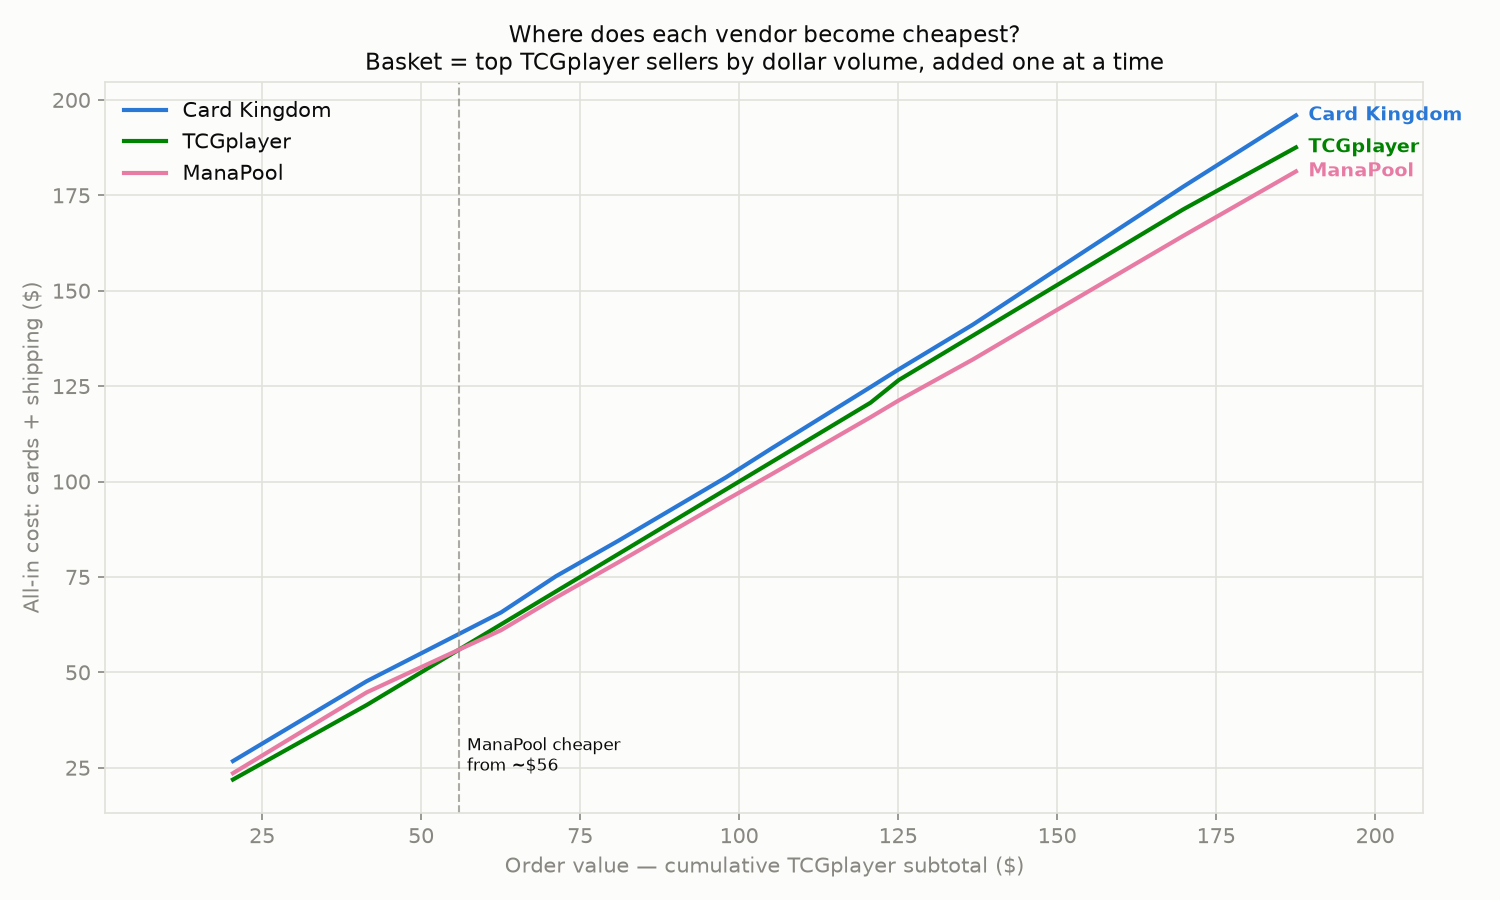
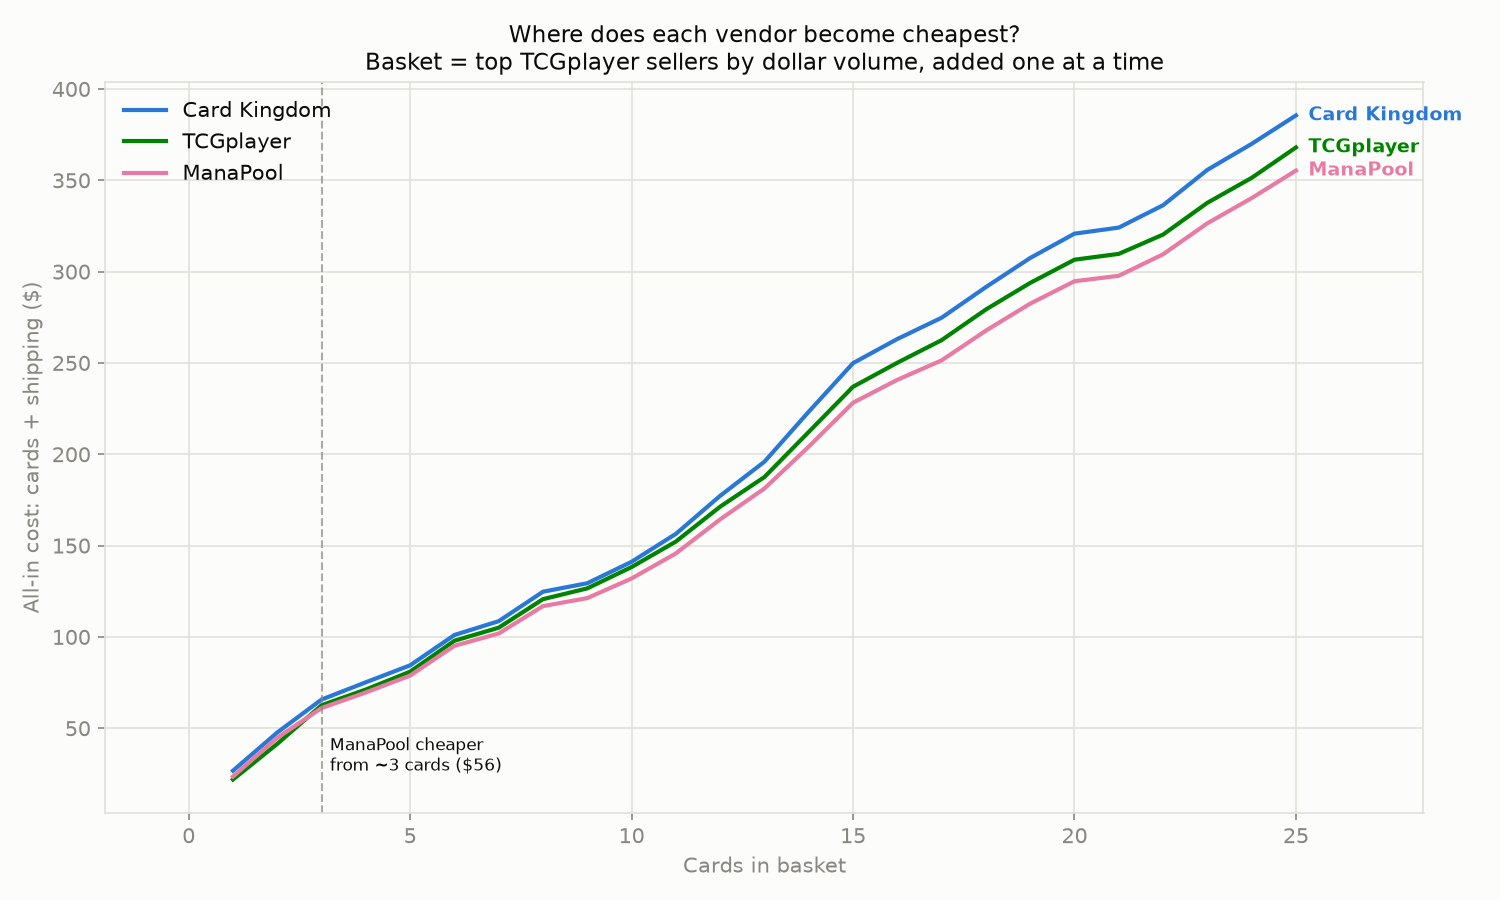
Switch chart x-axis to number of cards
Main and zoom charts now plot cards-in-basket on the x-axis (crossover
markers show both card count and dollar equivalent); the order-value view
moves to crossover_by_value.png. Zoom covers the first 25 cards.

Claude-Session: https://claude.ai/code/session_01JfSvnLRd6xKJhXvNadj6Qu

diff --git a/mtg_pricebot/cli.py b/mtg_pricebot/cli.py
@@ -66,16 +66,18 @@ def cmd_run(cfg: dict, args):
 
     curves_path = out_dir / f"basket_curves{suffix}.csv"
     curves.to_csv(curves_path, index=False)
-    chart_path = plot.plot_curves(curves, crossovers, out_dir / f"crossover_chart{suffix}.png")
-    chart_n_path = plot.plot_curves(curves, [], out_dir / f"crossover_by_cards{suffix}.png",
-                                    x_col="n_cards")
-    # Zoomed view of the small-order region where shipping thresholds bite.
-    zoom = curves[curves["order_value"] <= 200]
+    chart_path = plot.plot_curves(curves, crossovers, out_dir / f"crossover_chart{suffix}.png",
+                                  x_col="n_cards")
+    chart_v_path = plot.plot_curves(curves, crossovers,
+                                    out_dir / f"crossover_by_value{suffix}.png")
+    # Zoomed view of the small-basket region where shipping thresholds bite.
+    zoom = curves[curves["n_cards"] <= 25]
     if len(zoom) >= 3:
-        zoom_events = [ev for ev in crossovers if ev["order_value"] <= 200]
-        plot.plot_curves(zoom, zoom_events, out_dir / f"crossover_zoom{suffix}.png")
+        zoom_events = [ev for ev in crossovers if ev["n_cards"] <= 25]
+        plot.plot_curves(zoom, zoom_events, out_dir / f"crossover_zoom{suffix}.png",
+                         x_col="n_cards")
 
-    print(f"\nWrote {curves_path}\nWrote {chart_path}\nWrote {chart_n_path}\n")
+    print(f"\nWrote {curves_path}\nWrote {chart_path}\nWrote {chart_v_path}\n")
     print("=== Crossovers vs TCGplayer (all-in cost) ===")
     if not crossovers:
         print("  none — one vendor stays cheapest across the whole range")

diff --git a/mtg_pricebot/plot.py b/mtg_pricebot/plot.py
@@ -33,10 +33,15 @@ def plot_curves(curves: pd.DataFrame, crossovers: list[dict], out_path: Path,
     for ev in crossovers:
         if ev["direction"] != "cheaper":
             continue
-        ax.axvline(ev["order_value"], color=MUTED, linewidth=1, linestyle="--", alpha=0.7)
+        if x_col == "n_cards":
+            xv = ev["n_cards"]
+            note = f'{LABELS[ev["vendor"]]} cheaper\nfrom ~{ev["n_cards"]} cards (${ev["order_value"]:,.0f})'
+        else:
+            xv = ev["order_value"]
+            note = f'{LABELS[ev["vendor"]]} cheaper\nfrom ~${ev["order_value"]:,.0f}'
+        ax.axvline(xv, color=MUTED, linewidth=1, linestyle="--", alpha=0.7)
         y0, y1 = ax.get_ylim()
-        ax.annotate(f'{LABELS[ev["vendor"]]} cheaper\nfrom ~${ev["order_value"]:,.0f}',
-                    (ev["order_value"], y0 + 0.05 * (y1 - y0)),
+        ax.annotate(note, (xv, y0 + 0.05 * (y1 - y0)),
                     color=INK, fontsize=8, ha="left", va="bottom",
                     xytext=(4, 0), textcoords="offset points")
 

diff --git a/README.md b/README.md
@@ -32,9 +32,9 @@ Outputs land in `output/`:
 
 | File | What it is |
 |---|---|
-| `crossover_chart*.png` | The three cost curves + crossover markers |
-| `crossover_zoom*.png` | Zoom on the $0–200 region where shipping thresholds bite |
-| `crossover_by_cards*.png` | Same curves with card count on the x-axis |
+| `crossover_chart*.png` | The three cost curves + crossover markers (x = cards in basket) |
+| `crossover_zoom*.png` | Zoom on the first 25 cards, where shipping thresholds bite |
+| `crossover_by_value*.png` | Same curves with order value ($) on the x-axis |
 | `basket_curves*.csv` | Every basket step: subtotal / shipping / total per vendor |
 | `data/top_cards.csv` | The ranked basket (from `rank` step) |
 
